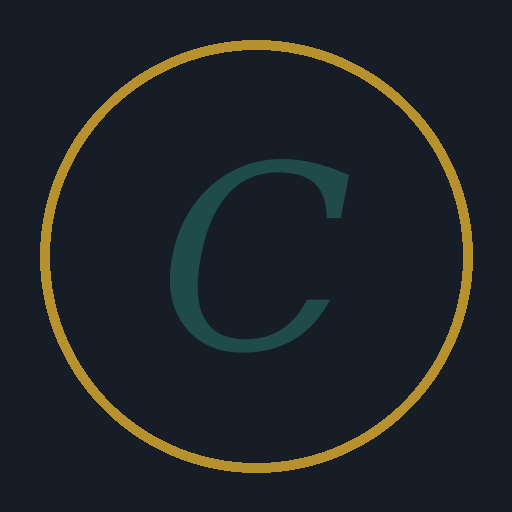
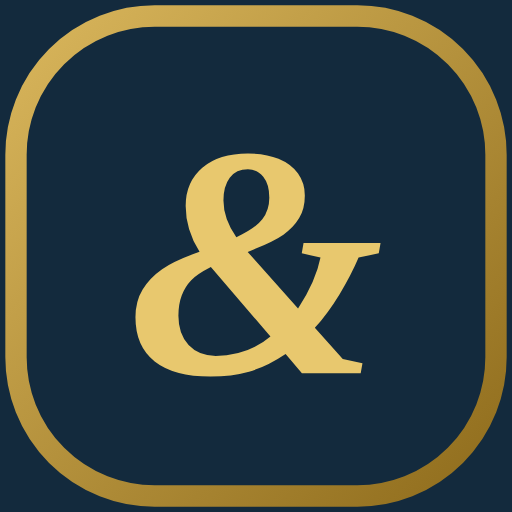
Rebrand to H&S group and redesign hotel switching UI
New H&S logo/favicon/icons, hotel bar with per-hotel accent colors and room counts,
hotel tag on page headers, page margin fix, tidier room tiles, group wording on login
and print footers. Tests updated to use the hotel tabs.

Claude-Session: https://claude.ai/code/session_01PGEqubHbz72qu9GU4V5hvy

Changed region(s): [[0.0, 0.0, 1.0, 1.0], [0.25, 0.2812, 0.75, 0.75]]

diff --git a/src/components/shared.jsx b/src/components/shared.jsx
@@ -38,7 +38,8 @@ export function GlobalStyle() {
       }
       .calma-app *{ box-sizing:border-box; }
       .calma-app button, .calma-app input, .calma-app select, .calma-app textarea{ font-family:inherit; }
-      .cx-logo{ font-family:'Fraunces',serif; font-style:italic; letter-spacing:.01em; }
+      .cx-logo{ font-family:Georgia,'Times New Roman',serif; font-weight:700; letter-spacing:.04em; }
+      html, body{ margin:0; background:#F5F3EE; }
 
       /* ---------- app shell ---------- */
       .cx-shell{ min-height:100vh; }
@@ -81,6 +82,27 @@ export function GlobalStyle() {
         .cx-page-head{ padding:16px 14px 0; }
         .cx-page-head h1{ font-size:19px; }
       }
+
+
+      /* ---------- شريط الفنادق + هوية المجموعة ---------- */
+      .cx-header{ border-bottom:3px solid var(--hotel,#B8912F); }
+      .cx-brand-wrap{ display:flex; align-items:center; gap:14px; min-width:0; }
+      .cx-brand-wrap .cx-logo{ color:#F4E6B8; }
+      .cx-divider-v{ width:1px; height:26px; background:rgba(255,255,255,.18); }
+      .cx-hotelbar{ display:flex; gap:10px; padding:14px 22px 0; overflow-x:auto; scrollbar-width:none; }
+      .cx-hotelbar::-webkit-scrollbar{ display:none; }
+      .cx-hchip{ flex:1 1 0; min-width:150px; max-width:260px; display:flex; align-items:center; gap:10px; text-align:start; padding:10px 14px; border-radius:14px; background:var(--surface); border:1px solid var(--hair); cursor:pointer; box-shadow:var(--sh); transition:transform .12s, box-shadow .15s, border-color .15s, background .15s; color:var(--text); font-family:inherit; }
+      .cx-hchip:hover{ transform:translateY(-1px); box-shadow:var(--sh-l); }
+      .cx-hchip .dot{ width:36px; height:36px; border-radius:11px; display:grid; place-items:center; color:#fff; font-weight:700; font-size:14px; background:var(--acc); flex:none; }
+      .cx-hchip .nm{ font-size:14.5px; font-weight:700; color:var(--ink); line-height:1.2; }
+      .cx-hchip .sub{ font-size:12px; color:var(--muted); margin-top:2px; }
+      .cx-hchip.active{ background:linear-gradient(135deg,#132A3D,#1D3A52); border-color:var(--acc); box-shadow:0 0 0 2px var(--acc), 0 10px 22px -12px rgba(19,42,61,.7); }
+      .cx-hchip.active .nm{ color:#fff; } .cx-hchip.active .sub{ color:rgba(239,233,218,.75); }
+      .cx-hotel-tag{ display:inline-flex; align-items:center; gap:6px; margin-inline-start:10px; padding:2px 11px; border-radius:999px; background:var(--acc); color:#fff; font-size:13px; font-weight:700; vertical-align:middle; }
+      .cx-page-head h1{ display:flex; align-items:center; flex-wrap:wrap; }
+      @media screen and (max-width:1023.98px){ .cx-hotelbar{ padding:10px 12px 0; } .cx-hchip{ min-width:128px; padding:8px 10px; } .cx-hchip .dot{ width:30px; height:30px; font-size:12.5px; } .cx-divider-v, .cx-brand-sub{ display:none; } }
+      .cx-auth-brand .cx-auth-hotels{ display:flex; gap:8px; flex-wrap:wrap; margin-top:18px; }
+      .cx-auth-brand .cx-auth-hotels span{ padding:5px 12px; border-radius:999px; border:1px solid rgba(214,178,94,.45); color:#E8D49A; font-size:13px; background:rgba(214,178,94,.08); }
 
       /* ---------- icon chips & motion ---------- */
       .cx-ico{ width:40px; height:40px; border-radius:12px; display:inline-grid; place-items:center; flex:none; }
@@ -150,7 +172,7 @@ export function GlobalStyle() {
       .cx-board{ display:grid; grid-template-columns:1fr; gap:16px; align-items:start; }
       @media screen and (min-width:1024px){ .cx-board.has-panel{ grid-template-columns:minmax(0,1fr) minmax(380px,460px); } }
       @media screen and (min-width:1400px){ .cx-board.has-panel{ grid-template-columns:minmax(0,1fr) minmax(440px,540px); } }
-      .cx-tiles{ display:grid; grid-template-columns:repeat(auto-fill,minmax(150px,1fr)); gap:12px; }
+      .cx-tiles{ display:grid; grid-template-columns:repeat(auto-fill,minmax(150px,1fr)); grid-auto-rows:minmax(122px,auto); gap:12px; }
       .cx-tile{ border:1px solid var(--hair); border-radius:14px; background:#fff; padding:12px 12px 11px; cursor:pointer; transition:transform .12s, box-shadow .15s, border-color .15s; box-shadow:var(--sh); position:relative; overflow:hidden; min-height:96px; display:flex; flex-direction:column; gap:2px; }
       .cx-tile::before{ content:""; position:absolute; inset-inline:0; top:0; height:4px; background:var(--st,#999); }
       .cx-tile:hover{ transform:translateY(-2px); box-shadow:var(--sh-l); }
@@ -434,9 +456,16 @@ export function SchemaOutdatedBanner({ version, required, isAdmin }) {
 
 export function Logo({ size = 34, light = false }) {
   return (
-    <div style={{ display: "flex", alignItems: "center", gap: 8 }}>
-      <svg width={size} height={size} viewBox="0 0 40 40" aria-hidden="true"><circle cx="20" cy="20" r="19" fill="none" stroke="#B8912F" strokeWidth="1.4" /><text x="20" y="27" textAnchor="middle" fontFamily="Fraunces, serif" fontStyle="italic" fontSize="20" fill={light ? "#D9B65C" : "#1F4B4A"}>C</text></svg>
-      <span className="cx-logo" style={{ fontSize: size * 0.62 }}>Calma</span>
+    <div style={{ display: "flex", alignItems: "center", gap: 10 }} data-testid="brand-logo">
+      <svg width={size} height={size} viewBox="0 0 48 48" aria-hidden="true">
+        <defs><linearGradient id={"hsg" + (light ? "l" : "d")} x1="0" y1="0" x2="1" y2="1"><stop offset="0" stopColor="#D9B65C" /><stop offset="1" stopColor="#8F6C1C" /></linearGradient></defs>
+        <rect x="1.5" y="1.5" width="45" height="45" rx="13" fill={light ? "rgba(255,255,255,.07)" : "#132A3D"} stroke={"url(#hsg" + (light ? "l" : "d") + ")"} strokeWidth="2" />
+        <text x="24" y="35" textAnchor="middle" fontFamily="Georgia, 'Times New Roman', serif" fontStyle="italic" fontWeight="700" fontSize="31" fill="#E8C86E">&amp;</text>
+      </svg>
+      <span style={{ display: "flex", flexDirection: "column", lineHeight: 1.1 }}>
+        <span className="cx-logo" style={{ fontSize: size * 0.62 }}>H&amp;S</span>
+        <span style={{ fontSize: Math.max(10, size * 0.3), letterSpacing: ".18em", opacity: .7, marginTop: 2 }}>HOTELS GROUP</span>
+      </span>
     </div>
   );
 }

diff --git a/src/components/Header.jsx b/src/components/Header.jsx
@@ -1,6 +1,8 @@
 import { useState } from "react";
 import { LogOut, Key, Search, LayoutGrid, NotebookPen, CalendarCheck2, BarChart3, History, Users } from "lucide-react";
 import { Logo, initials } from "./shared";
+import { useHotel } from "../lib/hotelContext";
+import { hotelAccent, GROUP_TITLE } from "../domain/constants";
 import { arabicWeekday, arabicDateLong, todayStr } from "../domain/dates";
 import { ROLES, TAB_LABELS } from "../domain/constants";
 import { validatePasswordStrength } from "../domain/security";
@@ -20,24 +22,17 @@ export const TAB_HINTS = {
 };
 
 
-export function Header({ user, onLogout, onChangePassword, onOpenSearch, hotels = [], hotelId, onHotelChange }) {
+export function Header({ user, onLogout, onChangePassword, onOpenSearch }) {
   const date = todayStr();
   const [showPw, setShowPw] = useState(false);
   return (
     <>
       <header className="cx-header cx-no-print">
         <div style={{ display: "flex", alignItems: "center", gap: 14, minWidth: 0 }}>
-          <Logo size={26} light />
+          <Logo size={30} light />
+          <span className="cx-divider-v" aria-hidden="true" />
           <span className="cx-date">{arabicWeekday(date)} · {arabicDateLong(date)}</span>
         </div>
-        {hotels.length > 1 && onHotelChange && (
-          <label className="cx-hotel-switch" title="اختار الفندق اللي شغال عليه">
-            <span className="cx-hotel-switch-lbl">الفندق</span>
-            <select className="cx-input cx-hotel-select" aria-label="الفندق" value={hotelId} onChange={(e) => onHotelChange(e.target.value)}>
-              {hotels.filter((h) => h.active).map((h) => <option key={h.id} value={h.id}>{h.name}</option>)}
-            </select>
-          </label>
-        )}
         {onOpenSearch && (
           <button className="cx-search-btn" onClick={onOpenSearch} aria-label="بحث سريع (Ctrl+K)" title="بحث سريع (Ctrl+K)">
             <Search size={16} aria-hidden="true" /><span className="cx-search-txt">بحث عن نزيل أو غرفة...</span><kbd>Ctrl K</kbd>
@@ -97,13 +92,38 @@ export function TabBar({ tabs, active, onChange, badges = {} }) {
 }
 
 export function PageHead({ tab, actions }) {
+  const { hotel, hotels } = useHotel();
   return (
     <div className="cx-page-head cx-no-print">
       <div>
-        <h1>{TAB_LABELS[tab]}</h1>
+        <h1>{TAB_LABELS[tab]}{hotels.length > 1 && <span className="cx-hotel-tag" style={{ "--acc": hotelAccent(hotels, hotel.id) }} data-testid="hotel-tag">{hotel.name}</span>}</h1>
         <p>{TAB_HINTS[tab]}</p>
       </div>
       {actions}
+    </div>
+  );
+}
+
+
+/* شريط الفنادق: كل فندق بروفايل مستقل - اضغط على الفندق عشان تشتغل عليه (الغرف والحجوزات واليومية والتقارير كلها بتتغيّر) */
+export function HotelBar({ hotels, hotelId, onChange, roomCounts = {} }) {
+  const list = hotels.filter((h) => h.active);
+  if (list.length < 2) return null;
+  return (
+    <div className="cx-hotelbar cx-no-print" role="tablist" aria-label={GROUP_TITLE}>
+      {list.map((h) => {
+        const acc = hotelAccent(hotels, h.id);
+        const active = h.id === hotelId;
+        return (
+          <button key={h.id} role="tab" aria-selected={active} aria-label={h.name} data-hotel-id={h.id} className={"cx-hchip" + (active ? " active" : "")} style={{ "--acc": acc }} onClick={() => onChange(h.id)}>
+            <span className="dot" aria-hidden="true">{String(h.shortName || h.name).trim().charAt(0).toUpperCase()}</span>
+            <span style={{ minWidth: 0 }}>
+              <div className="nm">{h.name}</div>
+              <div className="sub">{roomCounts[h.id] != null ? `${roomCounts[h.id]} غرفة` : "—"}</div>
+            </span>
+          </button>
+        );
+      })}
     </div>
   );
 }

diff --git a/e2e/integration/hotels.spec.js b/e2e/integration/hotels.spec.js
@@ -10,8 +10,10 @@ async function users(env) {
   await env.seedUser("rawan", "reservations", "روان");
   await env.seedUser("mona", "accounts", "منى");
 }
-const hotelSelect = (page) => page.getByLabel("الفندق", { exact: true });
-const switchHotel = async (page, name) => { await hotelSelect(page).selectOption({ label: name }); await expect(hotelSelect(page).locator("option:checked")).toHaveText(name); await page.waitForTimeout(500); };
+const hotelTab = (page, name) => page.getByRole("tab", { name, exact: true });
+const hotelTabs = (page) => page.getByRole("tablist").getByRole("tab");
+const activeHotelId = async (page) => page.locator('[role="tab"][aria-selected="true"]').getAttribute("data-hotel-id");
+const switchHotel = async (page, name) => { await hotelTab(page, name).click(); await expect(hotelTab(page, name)).toHaveAttribute("aria-selected", "true"); await expect(page.getByTestId("hotel-tag")).toHaveText(name); await page.waitForTimeout(500); };
 const tiles = (page) => page.locator(".cx-tile");
 
 test.describe("بروفايل مستقل لكل فندق", () => {
@@ -24,7 +26,9 @@ test.describe("بروفايل مستقل لكل فندق", () => {
     await users(env);
     await page.goto("/");
     await login(page, "boss");
-    await expect(hotelSelect(page).locator("option")).toHaveText(["فندق Calma", "Revento", "Park Plaza", "The Location"]);
+    await expect(hotelTabs(page)).toHaveCount(4);
+    await expect(hotelTabs(page)).toContainText(["فندق Calma", "Revento", "Park Plaza", "The Location"]);
+    await expect(hotelTabs(page).first()).toContainText("16 غرفة");
     await expect(tiles(page)).toHaveCount(16);
     for (const [name, n, first, last] of [["Revento", 25, 201, 225], ["Park Plaza", 33, 401, 433], ["The Location", 7, 301, 307], ["فندق Calma", 16, 601, 616]]) {
       await switchHotel(page, name);
@@ -64,7 +68,7 @@ test.describe("بروفايل مستقل لكل فندق", () => {
     await expect(tiles(page)).toHaveCount(7);
     await page.reload();
     await expect(tiles(page)).toHaveCount(7);
-    await expect(hotelSelect(page)).toHaveValue("4");
+    expect(await activeHotelId(page)).toBe("4");
   });
 
   test("مدير الحجوزات والحسابات كمان بيبدّلوا بين الفنادق", async ({ page, env }) => {
@@ -109,7 +113,7 @@ test.describe("الموظفين مشتركين: اختيار فندق + شيفت
     await page.goto("/");
     await login(page, "ahmed");
     // الموظف بيتفتحله فندقه المحجوز تلقائيًا
-    await expect(hotelSelect(page)).toHaveValue("2");
+    await expect.poll(() => activeHotelId(page)).toBe("2");
     await switchHotel(page, "فندق Calma");
     await goTab(page, "اليومية");
     await page.getByRole("button", { name: new RegExp(SHIFT_LABEL[myShiftKey()]) }).click();
@@ -125,7 +129,7 @@ test.describe("الموظفين مشتركين: اختيار فندق + شيفت
     await env.seedShift("sara", { hotel: 1, key: myShiftKey() === "morning" ? "evening" : "morning" });
     await page.goto("/");
     await login(page, "ahmed");
-    await expect(hotelSelect(page)).toHaveValue("2");
+    await expect.poll(() => activeHotelId(page)).toBe("2");
     await openRoom(page, 207);
     await payOnBoard(page, { amount: 120 });
     await expect(toast(page)).toBeVisible();

diff --git a/src/components/AuthScreens.jsx b/src/components/AuthScreens.jsx
@@ -10,8 +10,8 @@ function AuthBrand() {
     <div className="cx-auth-brand" aria-hidden="true">
       <Logo size={40} light />
       <div>
-        <h2>كل شغل الفندق في مكان واحد.</h2>
-        <p>الغرف، الحجوزات، يومية الشيفت، التحصيل والتقارير - بشكل واضح وسريع لكل موظف حسب دوره.</p>
+        <h2>كل فنادق المجموعة في مكان واحد.</h2>
+        <p>الغرف، الحجوزات، يومية الشيفت، التحصيل والتقارير - لكل فندق بروفايل مستقل، وبشكل واضح وسريع لكل موظف حسب دوره.</p>
       </div>
       <div className="cx-auth-feats">
         <span><RefreshCw size={15} />لحظي بين كل الأجهزة</span><span><ShieldCheck size={15} />صلاحيات لكل دور</span><span><Printer size={15} />تقارير جاهزة للطباعة</span>
@@ -84,7 +84,7 @@ export function LoginScreen({ onLogin }) {
       <AuthBrand />
       <div className="cx-auth-form">
       <div className="cx-card" style={{ width: "100%", maxWidth: 400, padding: "32px 26px" }}>
-        <div style={{ marginBottom: 22 }}><Logo /><div style={{ fontSize: 22, fontWeight: 700, color: "var(--ink)", marginTop: 14 }}>أهلاً بيك</div><div style={{ fontSize: 14, color: "var(--muted)", marginTop: 2 }}>سجّل دخولك لنظام إدارة الفندق</div></div>
+        <div style={{ marginBottom: 22 }}><Logo /><div style={{ fontSize: 22, fontWeight: 700, color: "var(--ink)", marginTop: 14 }}>أهلاً بيك</div><div style={{ fontSize: 14, color: "var(--muted)", marginTop: 2 }}>سجّل دخولك لنظام مجموعة H&S للفنادق</div></div>
         <label style={{ fontSize: 14, fontWeight: 700, display: "block", marginBottom: 4 }}>اسم المستخدم</label>
         <input className="cx-input" aria-label="اسم المستخدم" autoComplete="username" value={username} onChange={(e) => setUsername(e.target.value)} style={{ marginBottom: 12 }} onKeyDown={(e) => e.key === "Enter" && submit()} />
         <label style={{ fontSize: 14, fontWeight: 700, display: "block", marginBottom: 4 }}>كلمة المرور</label>
@@ -144,7 +144,7 @@ export function LogoutReportScreen({ user, actions, onExportAndLogout, onCancel 
             <span>توقيع: ______________________</span>
             <span>الختم:</span>
           </div>
-          <div className="cx-print-generated">تم إصدار هذا التقرير أوتوماتيكيًا من نظام إدارة الفندق Calma</div>
+          <div className="cx-print-generated">تم إصدار هذا التقرير أوتوماتيكيًا من نظام مجموعة H&S للفنادق</div>
         </div>
       </div>
     </div>

diff --git a/src/App.jsx b/src/App.jsx
@@ -1,7 +1,7 @@
 import React, { useState, useEffect, useRef } from "react";
 import { GlobalStyle, BackToTop, LoadingScreen, ConfigWarningBanner, SchemaOutdatedBanner } from "./components/shared";
 import { checkSchemaVersion, REQUIRED_SCHEMA_VERSION } from "./data/schemaCheck";
-import { Header, TabBar, PageHead } from "./components/Header";
+import { Header, TabBar, PageHead, HotelBar } from "./components/Header";
 import { SetupScreen, LoginScreen, LogoutReportScreen } from "./components/AuthScreens";
 import { RoomBoard } from "./components/RoomBoard";
 import { DailyLedger } from "./components/DailyLedger";
@@ -21,7 +21,7 @@ import { getHotels, DEFAULT_HOTELS, setActiveHotelId } from "./data/hotels";
 import { getMyClaims } from "./data/shifts";
 import { HotelContext } from "./lib/hotelContext";
 
-import { PERMISSIONS, ROOMS_DEFAULT } from "./domain/constants";
+import { PERMISSIONS, ROOMS_DEFAULT, hotelAccent } from "./domain/constants";
 import { todayStr, isSameDay, uid, shiftDayNow } from "./domain/dates";
 
 export default function App() {
@@ -275,6 +275,7 @@ export default function App() {
   const hotelBookings = bookings.filter((b) => (b.hotelId ?? 1) === hotel.id);
   const hotelActivity = activity.filter((a) => a.hotelId == null || a.hotelId === hotel.id);
   setActiveHotelId(hotel.id);
+  const roomCounts = rooms.reduce((m, r) => { const k = r.hotelId ?? 1; m[k] = (m[k] || 0) + 1; return m; }, {});
   const hotelCtx = { hotels, hotel, hotelId: hotel.id };
   const activeTab = perms.tabs.includes(tab) ? tab : perms.tabs[0];
 
@@ -285,12 +286,13 @@ export default function App() {
 
   return (
     <HotelContext.Provider value={hotelCtx}>
-    <div className="calma-app cx-shell" dir="rtl">
+    <div className="calma-app cx-shell" dir="rtl" style={{ "--hotel": hotelAccent(hotels, hotel.id) }}>
       <GlobalStyle />
-      <Header hotels={hotels} hotelId={hotel.id} onHotelChange={switchHotel} user={currentProfile} onLogout={requestLogout} onChangePassword={changeOwnPasswordHandler} onOpenSearch={() => setPaletteOpen(true)} />
+      <Header user={currentProfile} onLogout={requestLogout} onChangePassword={changeOwnPasswordHandler} onOpenSearch={() => setPaletteOpen(true)} />
       <TabBar tabs={perms.tabs} active={activeTab} onChange={setTab} badges={{}} />
       <main className="cx-main">
       {schemaState.ok === false && <SchemaOutdatedBanner version={schemaState.version} required={REQUIRED_SCHEMA_VERSION} isAdmin={currentProfile.role === "gm"} />}
+      <HotelBar hotels={hotels} hotelId={hotel.id} onChange={switchHotel} roomCounts={roomCounts} />
       <PageHead tab={activeTab} />
       {loadingData ? <LoadingScreen /> : (
         <React.Fragment key={hotel.id}>

diff --git a/src/components/ReportsPanel.jsx b/src/components/ReportsPanel.jsx
@@ -497,13 +497,13 @@ export function ReportsPanel({ rooms: hotelRoomsProp, bookings: hotelBookingsPro
           {copyText && <textarea className="cx-textarea" readOnly value={copyText} rows={8} style={{ marginTop: 10 }} onFocus={(e) => e.target.select()} />}
 
           {/* تذييل الطباعة: خانة توقيع/ختم المسؤول، وسطر صغير بيوضح إن
-              التقرير متولد أوتوماتيك من نظام Calma - شكل ورقة رسمية. */}
+              التقرير متولد أوتوماتيك من نظام مجموعة H&S - شكل ورقة رسمية. */}
           <div className="cx-print-only cx-print-footer">
             <div className="cx-print-sign">
               <span>توقيع المسؤول: ______________________</span>
               <span>الختم:</span>
             </div>
-            <div className="cx-print-generated">تم إصدار هذا التقرير أوتوماتيكيًا من نظام إدارة الفندق Calma</div>
+            <div className="cx-print-generated">تم إصدار هذا التقرير أوتوماتيكيًا من نظام مجموعة H&S للفنادق</div>
           </div>
         </>
       )}

diff --git a/e2e-video/09-hotels.spec.js b/e2e-video/09-hotels.spec.js
@@ -1,7 +1,7 @@
 import { test, expect, say, pause, users, login, logout, goTab, toast, openRoom, payOnBoard, claimShift, shiftDay, myShiftKey, SHIFT_LABEL, boardTile } from "./helpers";
 
-const hotelSelect = (page) => page.getByLabel("الفندق", { exact: true });
-const pick = async (page, name) => { await hotelSelect(page).selectOption({ label: name }); await expect(hotelSelect(page).locator("option:checked")).toHaveText(name); await pause(page, 1100); };
+const hotelTab = (page, name) => page.getByRole("tab", { name, exact: true });
+const pick = async (page, name) => { await hotelTab(page, name).click(); await expect(hotelTab(page, name)).toHaveAttribute("aria-selected", "true"); await pause(page, 1100); };
 
 test("09 - الفنادق المتعددة H&S: بروفايل مستقل لكل فندق، توزيع الموظفين، تحصيل كل فندق في يوميته، وتقارير المدير العام", async ({ page, env }) => {
   await users(env);

diff --git a/src/domain/constants.js b/src/domain/constants.js
@@ -5,6 +5,10 @@ export const HOTEL_NAME = "فندق Calma";
 
 /* اسم مجموعة الفنادق (الجروب) - بيظهر في التقرير المجمّع للمدير العام */
 export const GROUP_NAME = "H&S";
+export const GROUP_TITLE = "مجموعة H&S للفنادق";
+/* لون مميّز لكل فندق (بالترتيب) - بيظهر في شريط الفنادق وخط الهيدر عشان تعرف إنت في أنهي فندق */
+export const HOTEL_ACCENTS = ["#1F6B66", "#5B4BA6", "#B07A12", "#A63D63", "#2E6B9E", "#2F7A4F"];
+export const hotelAccent = (hotels, id) => HOTEL_ACCENTS[Math.max(0, (hotels || []).findIndex((h) => h.id === id)) % HOTEL_ACCENTS.length];
 
 export const SHIFTS = [
   { key: "morning", label: "الشيفت الصباحي", time: "8ص - 4م" },

diff --git a/src/components/BookingsPanel.jsx b/src/components/BookingsPanel.jsx
@@ -620,7 +620,7 @@ export function BookingsPanel({ jumpQuery, onJumpDone, rooms, bookings, perms, r
           <span>توقيع المسؤول: ______________________</span>
           <span>الختم:</span>
         </div>
-        <div className="cx-print-generated">تم إصدار هذا المستند أوتوماتيكيًا من نظام إدارة الفندق Calma</div>
+        <div className="cx-print-generated">تم إصدار هذا المستند أوتوماتيكيًا من نظام مجموعة H&S للفنادق</div>
       </div>
     </div>
   );

diff --git a/vite.config.js b/vite.config.js
@@ -17,9 +17,9 @@ export default defineConfig({
       workbox: { cleanupOutdatedCaches: true, clientsClaim: true },
       includeAssets: ["favicon.svg"],
       manifest: {
-        name: "Calma Hotel System",
-        short_name: "Calma",
-        description: "نظام إدارة فندق Calma",
+        name: "H&S Hotels Group",
+        short_name: "H&S",
+        description: "نظام إدارة فنادق مجموعة H&S",
         theme_color: "#161D27",
         background_color: "#FBF9F4",
         display: "standalone",

diff --git a/src/components/DailyLedger.jsx b/src/components/DailyLedger.jsx
@@ -678,7 +678,7 @@ function LedgerPrintFooter() {
         <span>توقيع الموظف المسؤول عن الشيفت: ______________________</span>
         <span>الختم:</span>
       </div>
-      <div className="cx-print-generated">تم إصدار هذا المستند أوتوماتيكيًا من نظام إدارة الفندق Calma</div>
+      <div className="cx-print-generated">تم إصدار هذا المستند أوتوماتيكيًا من نظام مجموعة H&S للفنادق</div>
     </div>
   );
 }

diff --git a/index.html b/index.html
@@ -4,8 +4,8 @@
     <meta charset="UTF-8" />
     <meta name="viewport" content="width=device-width, initial-scale=1.0, viewport-fit=cover" />
     <meta name="robots" content="noindex, nofollow" />
-    <meta name="theme-color" content="#161D27" />
-    <title>Calma · نظام إدارة الفندق</title>
+    <meta name="theme-color" content="#132A3D" />
+    <title>H&amp;S · نظام إدارة الفنادق</title>
     <link rel="icon" href="/favicon.svg" type="image/svg+xml" />
   </head>
   <body>
